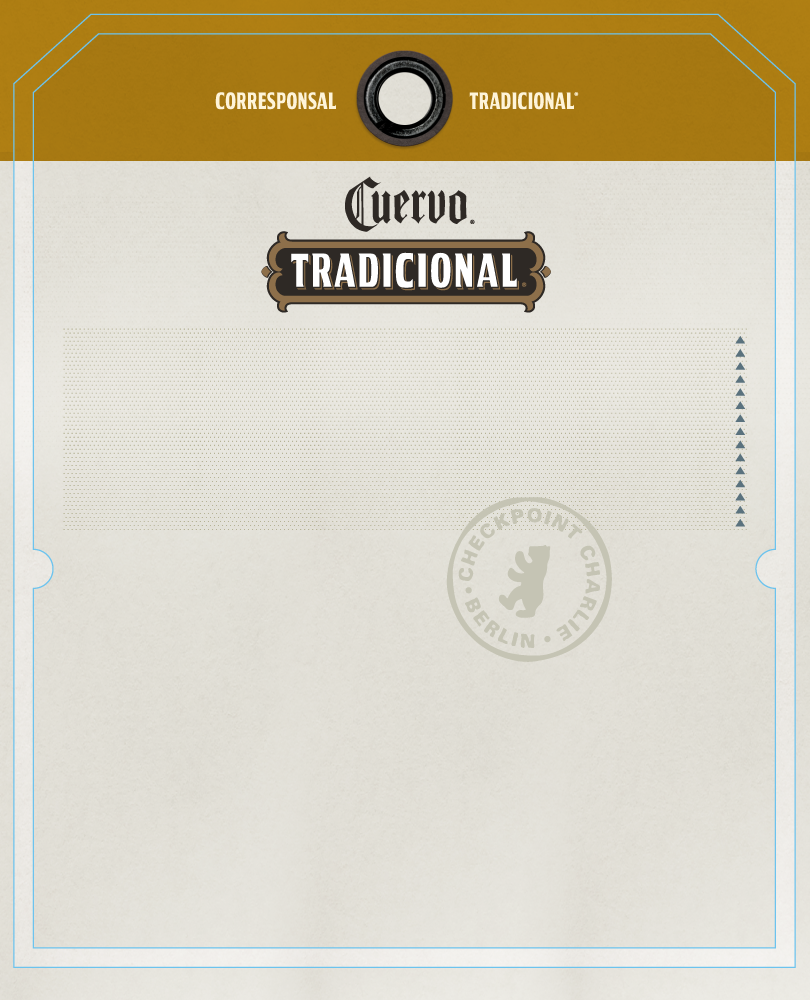
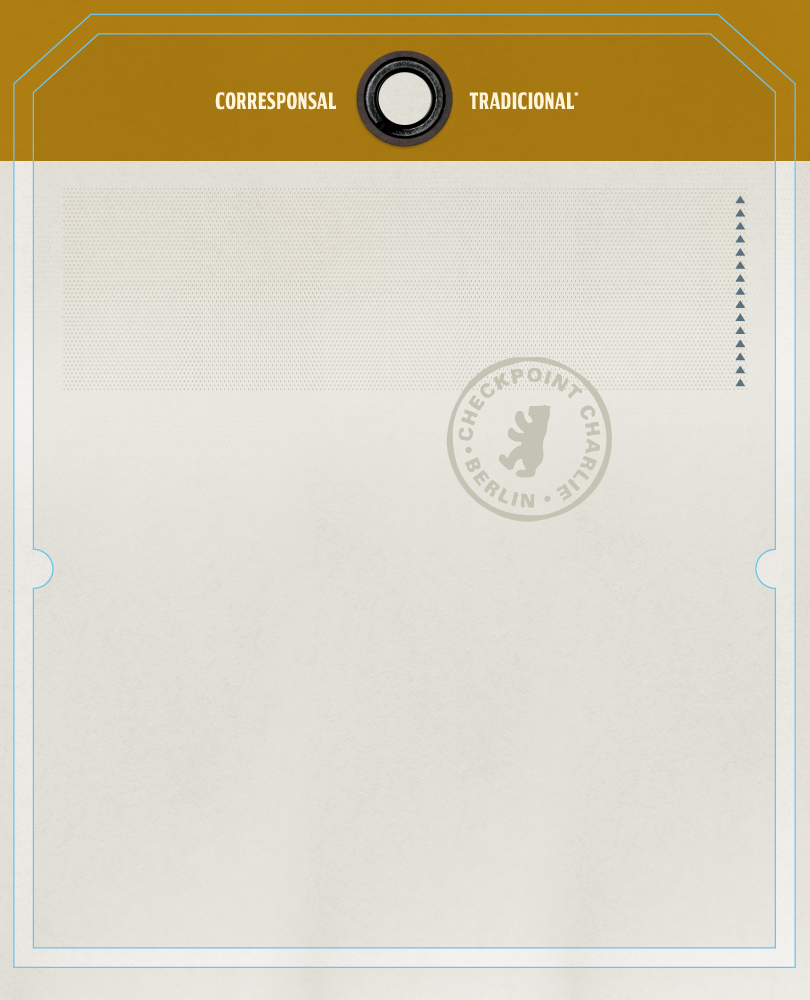
Cambios diseño
Diego

Changed region(s): [[0.0617, 0.155, 0.9259, 0.682]]

diff --git a/app/assets/stylesheets/index.css.scss b/app/assets/stylesheets/index.css.scss
@@ -49,7 +49,7 @@
 #section-fan {
   display: none;
   height: 100%;
-  margin-top: 320px;
+  margin-top: 180px;
   width: 100%;
 }
 
@@ -67,7 +67,7 @@
 
 #section-no-fan {
   height: 100%;
-  margin-top: 320px;
+  margin-top: 180px;
   width: 100%;
 }
 
@@ -82,6 +82,12 @@
   height: auto;
   margin: auto;
   width: 530px;
+}
+
+.content-large {
+  height: auto;
+  margin: auto;
+  width: 100%;
 }
 
 .content-ticket {
@@ -167,7 +173,7 @@
 
 .quince-div {
   background: url("tendras_02.png");
-  height: 224px;
+  height: 205px;
   margin: auto;
   width: 454px;
 }
@@ -205,6 +211,6 @@
 
 .youtube-content {
   margin: 20px auto 0 auto;
-  height: 250px;
-  width: 380px;
+  height: 410px;
+  width: 690px;
 }
